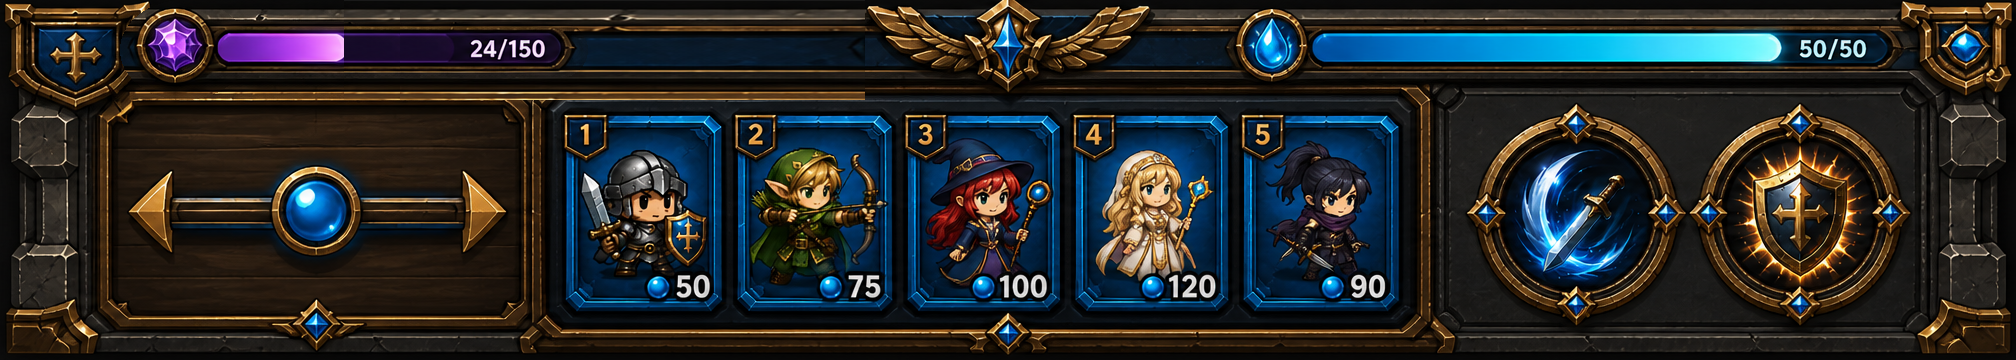
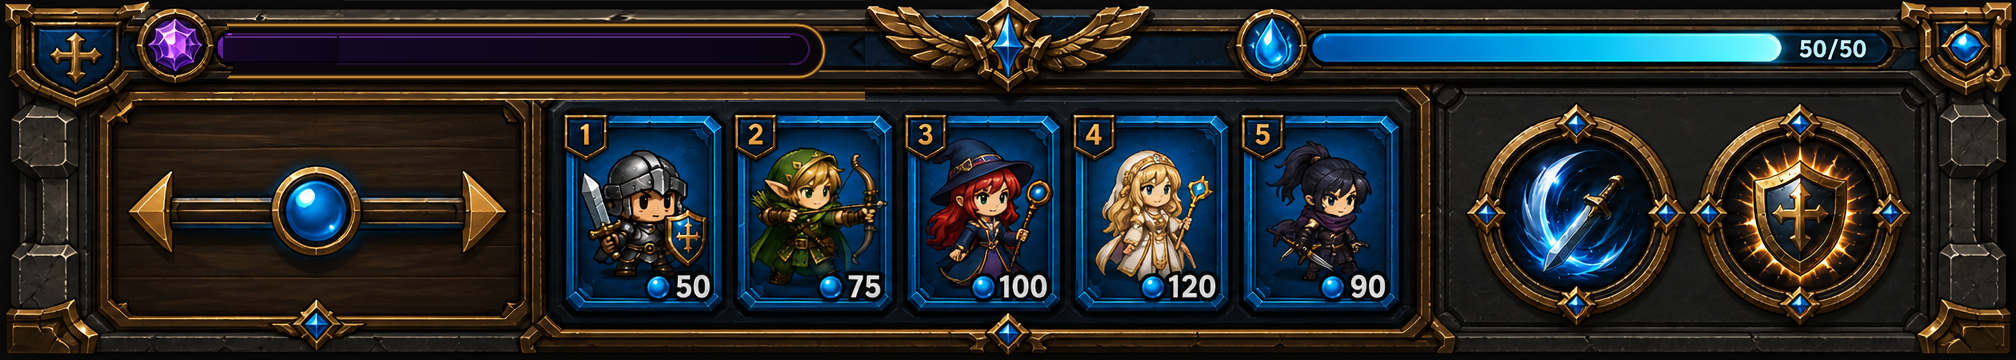
수정7

Changed region(s): [[0.0938, 0.0611, 0.4375, 0.2444]]

diff --git a/style.css b/style.css
@@ -342,7 +342,7 @@ body.game-started:not(.in-lobby):not(.in-stage-select):not(.in-shop):not(.in-rec
   z-index: 2;
   left: 99px;
   top: 13px;
-  width: 174px;
+  width: 292px;
   height: 13px;
   border-radius: 999px;
   overflow: hidden;
@@ -994,7 +994,7 @@ body.game-started:not(.in-lobby):not(.in-stage-select):not(.in-shop):not(.in-rec
   .battle-runestone-gauge {
     left: 99px;
     top: 13px;
-    width: 174px;
+    width: 292px;
     height: 13px;
   }
 
